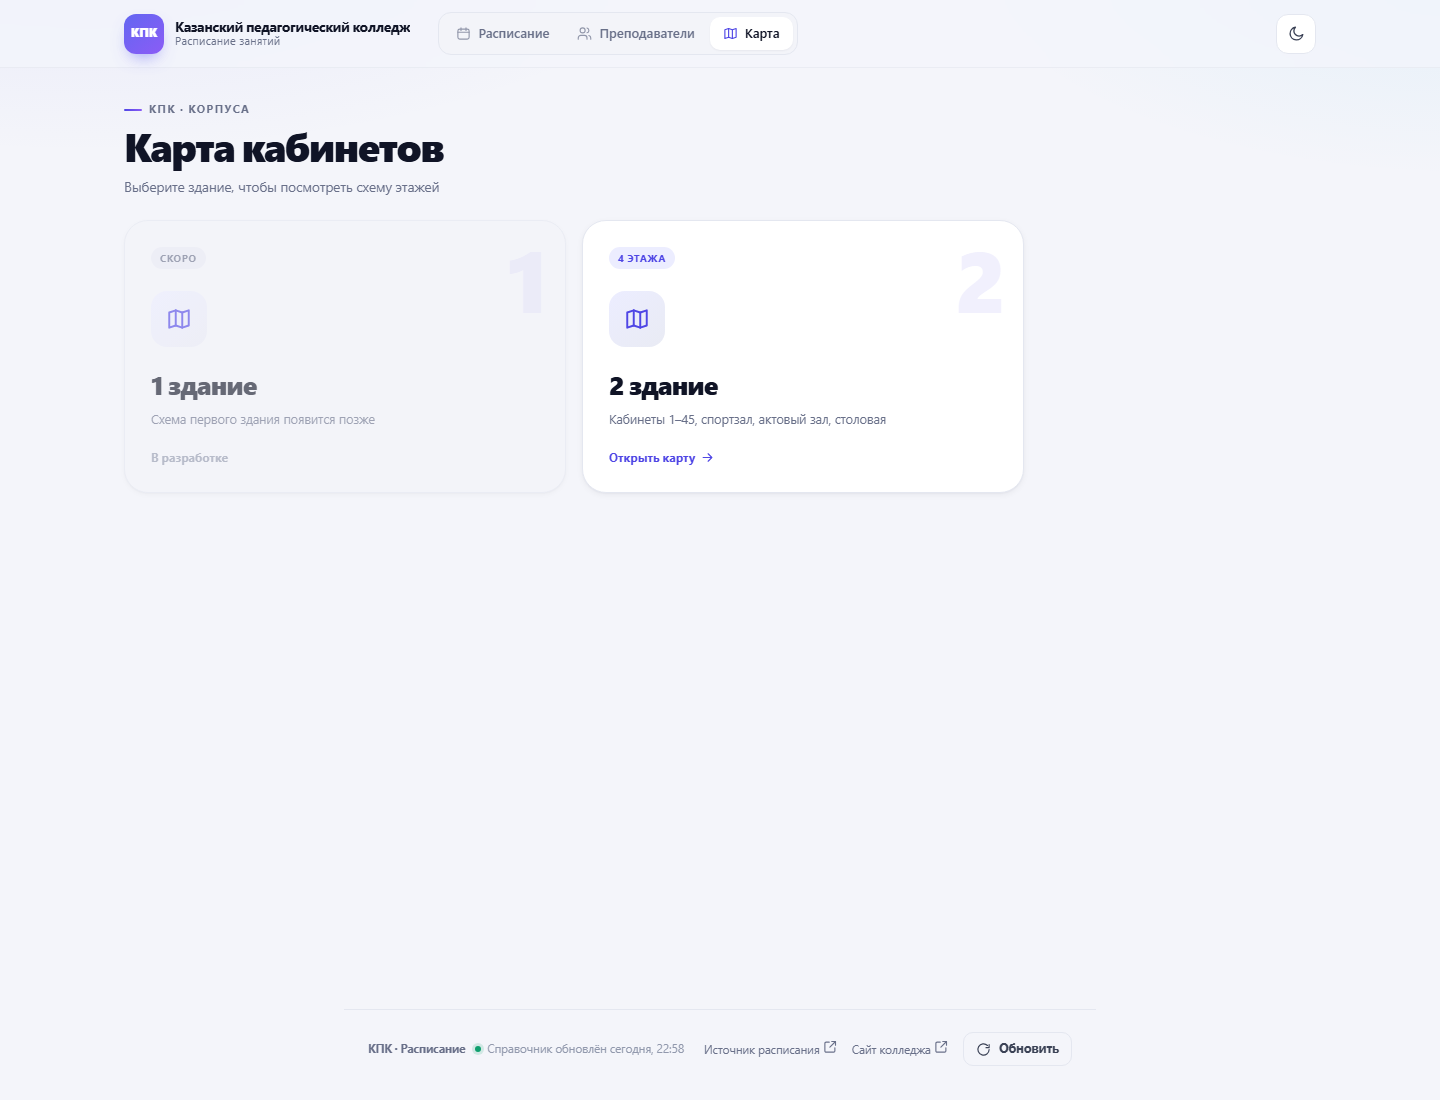
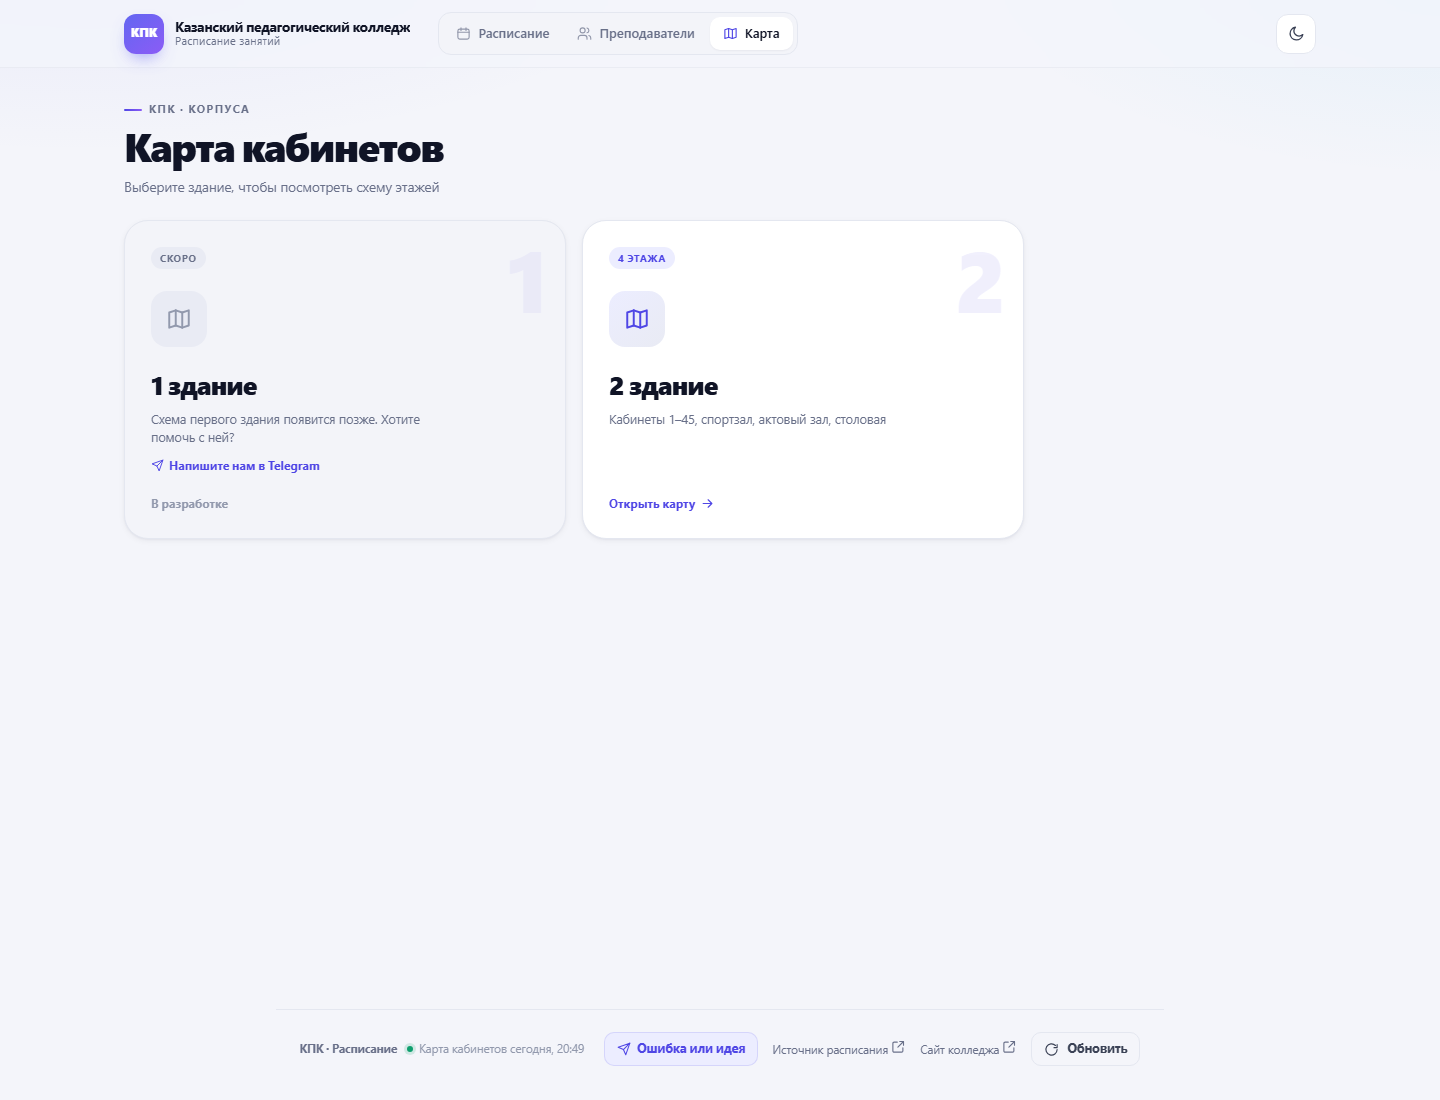
Ссылка на бота в карточке 1 здания и переход к преподавателю

diff --git a/public/js/views.js b/public/js/views.js
@@ -114,6 +114,20 @@ function peopleFor(lesson, mode) {
   return values.join(', ');
 }
 
+function lessonPeopleHTML(lesson, mode, weekStart) {
+  if (mode === 'teacher') return e(groupNames(lesson).join(', '));
+  const teachers = (lesson.teachers || []).filter((teacher) => teacher.fio);
+  if (!teachers.length) return '';
+  return teachers
+    .map((teacher) => {
+      const name = e(shortPerson(teacher.fio));
+      if (!teacher.id) return name;
+      const week = weekStart ? `/${weekStart}` : '';
+      return `<a class="lesson__teacher-link" href="#/teacher/${teacher.id}${week}" title="Открыть расписание преподавателя">${name}</a>`;
+    })
+    .join(', ');
+}
+
 function cabinetOf(lesson) {
   return (lesson.cabinet && lesson.cabinet.name) || '';
 }
@@ -454,12 +468,15 @@ export function liveBannerHTML(live, { mode = 'group', isCurrentWeek = true, les
 /* Уроки и неделя                                                      */
 /* ------------------------------------------------------------------ */
 
-function lessonCardHTML(lesson, { mode = 'group', liveIds = new Set(), today = false, rooms = null } = {}) {
+function lessonCardHTML(
+  lesson,
+  { mode = 'group', liveIds = new Set(), today = false, rooms = null, weekStart = null } = {}
+) {
   const id = String(lesson.id);
   const isNow = liveIds.has(id);
   const isPast = today && !isNow && lessonEnd(lesson) <= collegeNow().minutes;
   const badge = lessonBadge(lesson);
-  const people = peopleFor(lesson, mode);
+  const people = lessonPeopleHTML(lesson, mode, weekStart);
   const cabinet = cabinetOf(lesson);
   const subject = subjectOf(lesson);
   const time =
@@ -494,7 +511,7 @@ function lessonCardHTML(lesson, { mode = 'group', liveIds = new Set(), today = f
       ${metaRows.length ? `<div class="lesson__meta">${metaRows.join('')}</div>` : ''}
       ${
         people
-          ? `<div class="lesson__teacher">${e(people)}</div>`
+          ? `<div class="lesson__teacher">${people}</div>`
           : `<div class="lesson__teacher lesson__teacher--muted">${mode === 'teacher' ? 'Группа не указана' : 'Преподаватель не указан'}</div>`
       }
     </article>
@@ -535,7 +552,7 @@ function dayLessonsHTML(lessons, options) {
   return parts.join('');
 }
 
-function dayColumnHTML(dateKey, lessons, { mode, liveIds, mobileDay, rooms }) {
+function dayColumnHTML(dateKey, lessons, { mode, liveIds, mobileDay, rooms, weekStart }) {
   const now = collegeNow();
   const isToday = dateKey === now.date;
   const isMobileActive = mobileDay === dateKey;
@@ -555,6 +572,7 @@ function dayColumnHTML(dateKey, lessons, { mode, liveIds, mobileDay, rooms }) {
                 liveIds,
                 today: isToday,
                 rooms,
+                weekStart,
               })
             : `<div class="empty-day">${icon('inbox')}<span>Нет уроков</span></div>`
         }
@@ -673,6 +691,7 @@ export function scheduleView(state) {
                            liveIds,
                            mobileDay,
                            rooms: state.rooms,
+                           weekStart: state.weekStart,
                          })
                        )
                        .join('')}
@@ -984,6 +1003,7 @@ export function teacherScheduleView(state) {
                            liveIds,
                            mobileDay,
                            rooms: state.rooms,
+                           weekStart: state.weekStart,
                          })
                        )
                        .join('')}
@@ -1257,14 +1277,21 @@ export function buildingsView(state) {
     </div>
 
     <div class="building-grid">
-      <button class="building-card is-disabled" type="button" disabled aria-label="1 здание — скоро">
+      <div class="building-card is-soon" role="group" aria-label="1 здание — скоро">
         <span class="building-card__badge">Скоро</span>
         <span class="building-card__icon">${icon('map')}</span>
         <span class="building-card__num">1</span>
         <h2>1 здание</h2>
-        <p>Схема первого здания появится позже</p>
+        <p>Схема первого здания появится позже. Хотите помочь с ней?</p>
+        <a
+          class="building-card__help"
+          href="https://t.me/schedulekpk_bot"
+          target="_blank"
+          rel="noopener noreferrer"
+          aria-label="Написать в Telegram, чтобы помочь со схемой 1 здания"
+        >${icon('send', 'icon--sm')} Напишите нам в Telegram</a>
         <span class="building-card__note">В разработке</span>
-      </button>
+      </div>
 
       <a class="building-card is-ready" href="#/map/1">
         <span class="building-card__badge">4 этажа</span>

diff --git a/public/css/map.css b/public/css/map.css
@@ -34,10 +34,18 @@
   box-shadow: 0 18px 36px -22px color-mix(in srgb, var(--accent) 55%, transparent);
 }
 
-.building-card.is-disabled {
-  opacity: 0.62;
-  cursor: not-allowed;
+.building-card.is-soon {
+  cursor: default;
   background: var(--surface-2);
+}
+
+.building-card.is-soon .building-card__icon {
+  background: var(--surface-3);
+  color: var(--faint);
+}
+
+.building-card.is-soon .building-card__num {
+  opacity: 0.05;
 }
 
 .building-card__badge {
@@ -54,7 +62,7 @@
   text-transform: uppercase;
 }
 
-.building-card.is-disabled .building-card__badge {
+.building-card.is-soon .building-card__badge {
   background: var(--surface-3);
   color: var(--muted);
 }
@@ -107,6 +115,30 @@
   color: var(--muted);
 }
 
+.building-card__help {
+  position: relative;
+  z-index: 1;
+  display: inline-flex;
+  align-items: center;
+  gap: 5px;
+  margin-top: 10px;
+  color: var(--accent);
+  font-size: 12px;
+  font-weight: 650;
+  text-decoration: none;
+}
+
+.building-card__help:hover {
+  text-decoration: underline;
+  text-underline-offset: 3px;
+}
+
+.building-card__help .icon {
+  width: 13px;
+  height: 13px;
+  flex: none;
+}
+
 .building-card__note {
   position: relative;
   z-index: 1;
@@ -120,7 +152,7 @@
   color: var(--accent);
 }
 
-.building-card.is-disabled .building-card__note {
+.building-card.is-soon .building-card__note {
   color: var(--faint);
 }
 

diff --git a/public/css/styles.css b/public/css/styles.css
@@ -1252,6 +1252,18 @@ img {
   color: var(--muted);
 }
 
+.lesson__teacher-link {
+  color: var(--text-soft);
+  text-decoration: none;
+  border-bottom: 1px dotted color-mix(in srgb, var(--muted) 45%, transparent);
+  transition: color 0.15s ease, border-color 0.15s ease;
+}
+
+.lesson__teacher-link:hover {
+  color: var(--accent);
+  border-color: color-mix(in srgb, var(--accent) 55%, transparent);
+}
+
 .lesson__live {
   display: none;
   position: absolute;

diff --git a/README.md b/README.md
@@ -16,7 +16,8 @@
 - **Расписание преподавателя** — можно открыть неделю занятий конкретного педагога.
 - **Карта кабинетов** — выбор здания, 4 этажа: свободен ли кабинет сейчас,
   когда следующий урок, какая группа и преподаватель. Из расписания можно
-  нажать на номер кабинета и сразу открыть его на карте.
+  нажать на номер кабинета и сразу открыть его на карте, а на имя преподавателя —
+  открыть его расписание.
 - **Светлая и тёмная тема**, адаптивность под телефон, планшет и десктоп.
 - **Автообновление**: расписание — каждые 2 минуты, справочник преподавателей — каждые 6 часов,
   плюс кнопка «Обновить» для ручного обновления.
